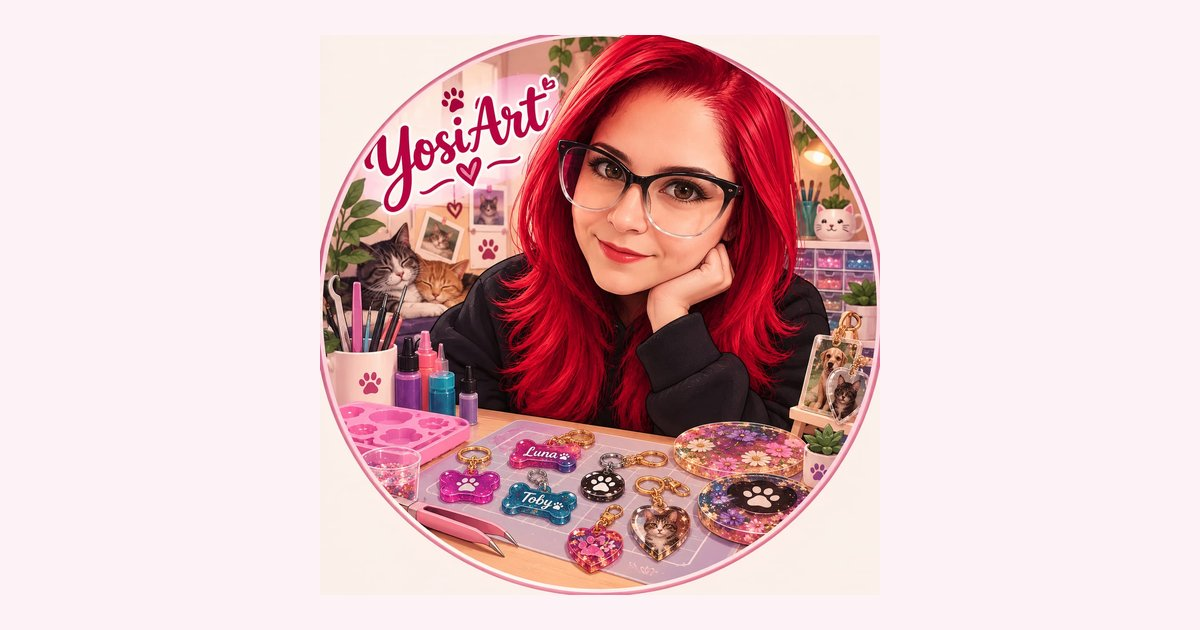
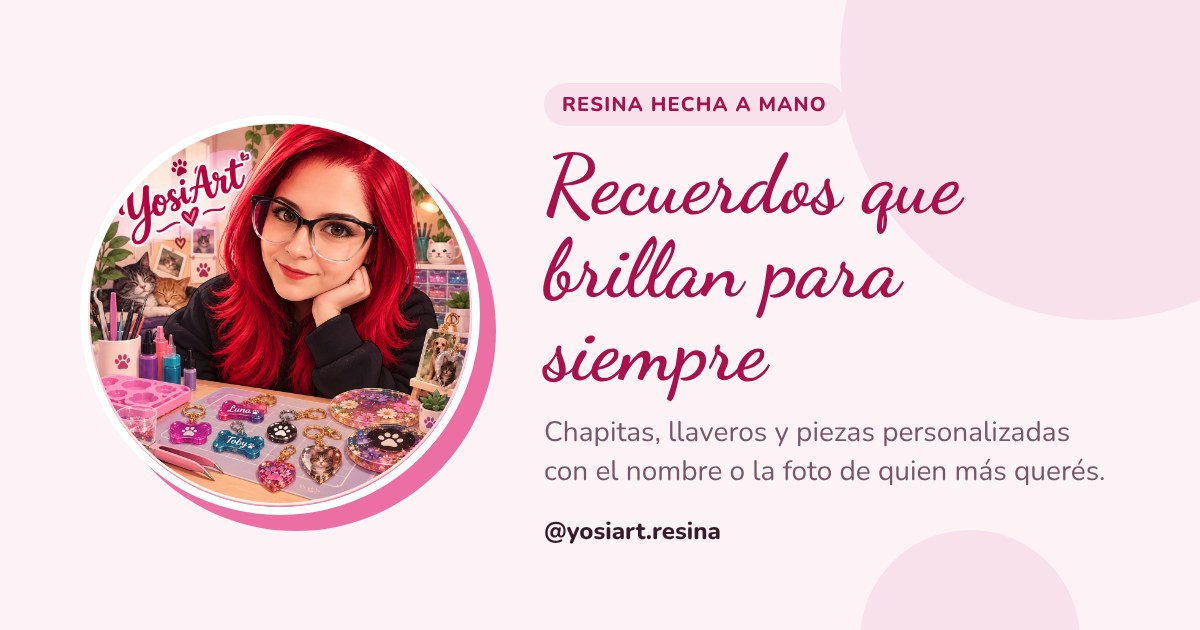
Tarjeta de YosiArt al compartir el link
Imagen nueva de 1200x630 con la marca, y las etiquetas og/twitter con la
dirección completa (con /og.jpg relativo WhatsApp no mostraba la imagen).

Claude-Session: https://claude.ai/code/session_018M62SS1zuXWYZnGngyHvMe

diff --git a/index.html b/index.html
@@ -10,18 +10,28 @@
     <meta name="viewport" content="width=device-width, initial-scale=1.0" />
     <title>YosiArt — Resina hecha a mano</title>
 
-    <!-- Vista previa al compartir el link (Instagram, Facebook, etc.) -->
+    <!-- Tarjeta al compartir el link (WhatsApp, Instagram, Facebook, X).
+         Las direcciones van completas: con "/og.jpg" solo, WhatsApp no
+         muestra la imagen. Si cambia el dominio, actualizar SITIO acá. -->
     <meta name="description" content="Llaveros, chapitas y piezas de resina personalizadas con el nombre o la foto de quien más querés." />
+    <link rel="canonical" href="https://yosiart.castrodavid9872.workers.dev/" />
     <meta property="og:type" content="website" />
     <meta property="og:site_name" content="YosiArt" />
     <meta property="og:locale" content="es_AR" />
+    <meta property="og:url" content="https://yosiart.castrodavid9872.workers.dev/" />
     <meta property="og:title" content="YosiArt — Recuerdos que brillan para siempre" />
-    <meta property="og:description" content="Piezas de resina personalizadas, hechas a mano en Buenos Aires." />
-    <meta property="og:image" content="/og.jpg" />
+    <meta property="og:description" content="Chapitas, llaveros y piezas de resina personalizadas, hechas a mano en Buenos Aires." />
+    <meta property="og:image" content="https://yosiart.castrodavid9872.workers.dev/og.jpg?v=2" />
+    <meta property="og:image:secure_url" content="https://yosiart.castrodavid9872.workers.dev/og.jpg?v=2" />
+    <meta property="og:image:type" content="image/jpeg" />
     <meta property="og:image:width" content="1200" />
     <meta property="og:image:height" content="630" />
-    <meta property="og:image:alt" content="Logo de YosiArt" />
+    <meta property="og:image:alt" content="Yosi en su taller con piezas de resina, y el texto: Recuerdos que brillan para siempre" />
     <meta name="twitter:card" content="summary_large_image" />
+    <meta name="twitter:title" content="YosiArt — Recuerdos que brillan para siempre" />
+    <meta name="twitter:description" content="Chapitas, llaveros y piezas de resina personalizadas, hechas a mano en Buenos Aires." />
+    <meta name="twitter:image" content="https://yosiart.castrodavid9872.workers.dev/og.jpg?v=2" />
+    <link rel="apple-touch-icon" href="/logo.png" />
     <meta name="theme-color" content="#A8124C" />
   </head>
   <body>
